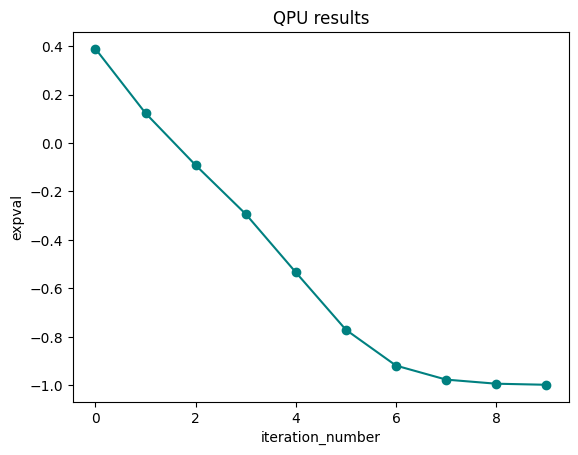
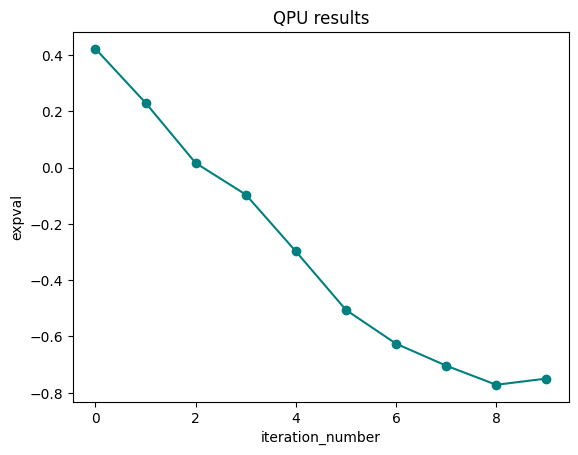
update code block, restore braket folder, new qpu results

diff --git a/demonstrations/getting_started_with_hybrid_jobs.py b/demonstrations/getting_started_with_hybrid_jobs.py
@@ -61,12 +61,12 @@ First, we import the necessary packages for the algorithm:
 import pennylane as qml
 from pennylane import numpy as np
 
-from getting_started_with_hybrid_jobs.aws import AwsQuantumJob
-from getting_started_with_hybrid_jobs.jobs import log_metric, hybrid_job
+from braket.aws import AwsQuantumJob
+from braket.jobs import log_metric, hybrid_job
 
-from getting_started_with_hybrid_jobs.devices import Devices
+from braket.devices import Devices
 
-from getting_started_with_hybrid_jobs.circuits import Circuit, Observable
+from braket.circuits import Circuit, Observable
 
 ######################################################################
 # Next, we define a quantum simulator to run the algorithm on. In this example, we will use the Braket
@@ -126,12 +126,12 @@ qubit_rotation(5, stepsize=0.5)
 #
 #  .. code-block:: none
 #
-# Metrics - timestamp=1695043649.822114; expval=0.38894534132396147; iteration_number=0;
-# Metrics - timestamp=1695043649.8757634; expval=0.12290715413453956; iteration_number=1;
-# Metrics - timestamp=1695043649.9254549; expval=-0.09181374013482171; iteration_number=2;
-# Metrics - timestamp=1695043649.973501; expval=-0.2936094099948542; iteration_number=3;
-# Metrics - timestamp=1695043650.020348; expval=-0.5344079938678078; iteration_number=4;
-# [0.6767967215302757, 2.3260934173312653]
+#       Metrics - timestamp=1695043649.822114; expval=0.38894534132396147; iteration_number=0;
+#       Metrics - timestamp=1695043649.8757634; expval=0.12290715413453956; iteration_number=1;
+#       Metrics - timestamp=1695043649.9254549; expval=-0.09181374013482171; iteration_number=2;
+#       Metrics - timestamp=1695043649.973501; expval=-0.2936094099948542; iteration_number=3;
+#       Metrics - timestamp=1695043650.020348; expval=-0.5344079938678078; iteration_number=4;
+#       [0.6767967215302757, 2.3260934173312653]
 
 ######################################################################
 # Great! We see the expectation value change with each iteration number and the final parameters were
@@ -188,13 +188,12 @@ print(job)
 #
 #  .. code-block:: none
 #
-# AwsQuantumJob('arn':'arn:aws:braket:<aws-region>:<account_id>:job/qubit-rotation-hybrid-job-1695044583')
-
+#       AwsQuantumJob('arn':'arn:aws:braket:<aws-region>:<account_id>:job/qubit-rotation-hybrid-job-1695044583')
 
 ######################################################################
-# | The hybrid job automatically captures the function arguments as hyperparameters. Function
-#   arguments can be of the four built-in Python types: ``bool, int, float, str``.
-# | In this case, we set ``num_steps = 10`` and ``stepsize = 0.5`` as the hyperparameters.
+# The hybrid job automatically captures the function arguments as hyperparameters. 
+# Function arguments can be of the four built-in Python types: ``bool, int, float, str``.
+# In this case, we set ``num_steps = 10`` and ``stepsize = 0.5`` as the hyperparameters.
 #
 # We can check the status with:
 #
@@ -208,7 +207,7 @@ job.state()
 #
 #  .. code-block:: none
 #
-#   'QUEUED'
+#       'QUEUED'
 
 ######################################################################
 # One the hybrid job starts, it will change the status to ``RUNNING``. We can also check the hybrid
@@ -227,7 +226,7 @@ job.result()
 #
 #  .. code-block:: none
 #
-#   {'result': [0.036420360224358496, 3.1008192940506736]}
+#       {'result': [0.036420360224358496, 3.1008192940506736]}
 
 ######################################################################
 # Any objects in the return statement are automatically captured by Braket. Note that the objects
@@ -256,7 +255,7 @@ plt.show()
 #
 # .. figure:: /demonstrations/getting_started_with_hybrid_jobs/simulator.png
 #     :align: center
-#     :width: 50%
+#     :width: 75%
 #     :alt: Expectation value per iteration number on QPU.
 #     :target: javascript:void(0);
 
@@ -361,7 +360,7 @@ plt.show()
 #
 # .. figure:: /demonstrations/getting_started_with_hybrid_jobs/qpu.png
 #     :align: center
-#     :width: 50%
+#     :width: 75%
 #     :alt: Expectation value per iteration number on QPU.
 #     :target: javascript:void(0);
 
